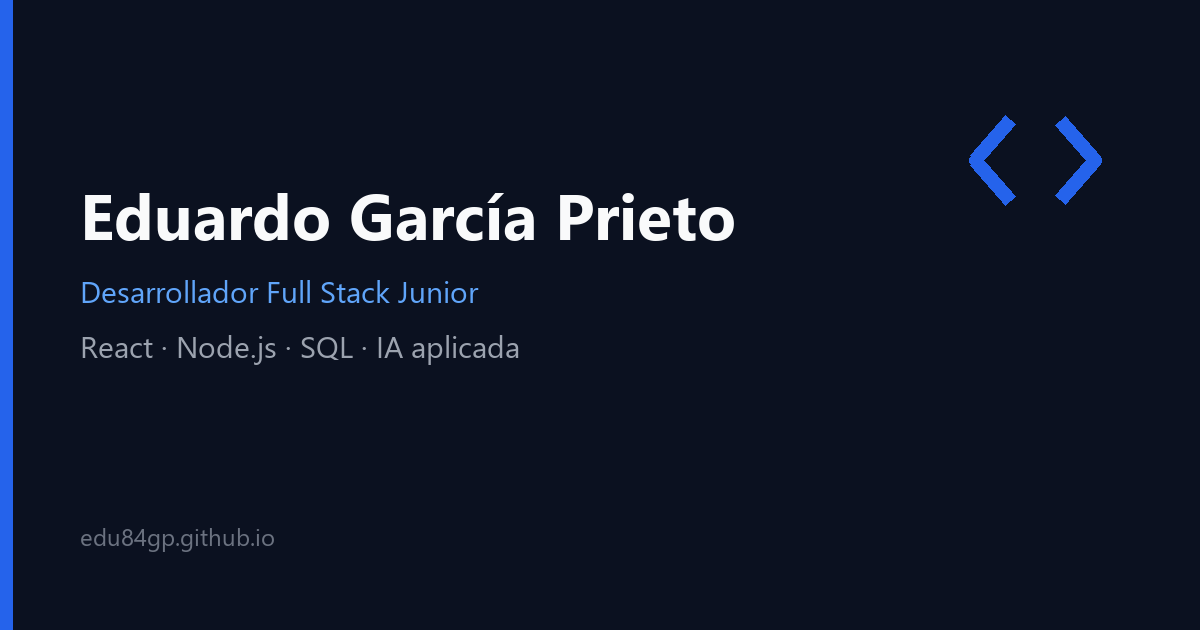
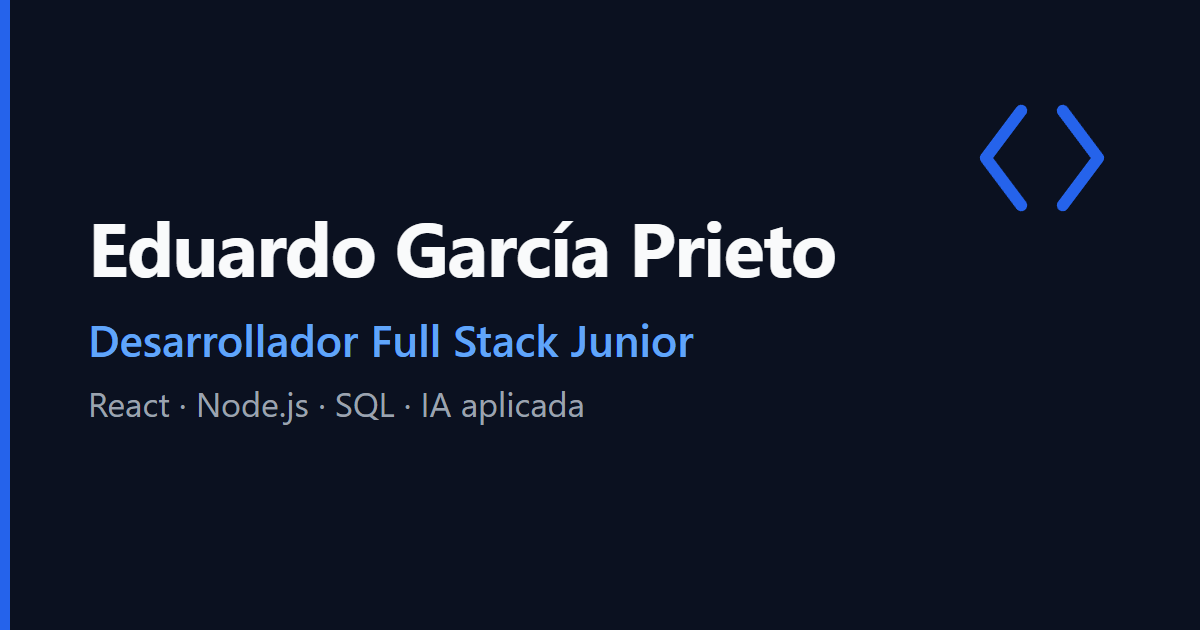
Simplifica la tarjeta social y completa los metadatos

diff --git a/index.html b/index.html
@@ -41,6 +41,7 @@
   <meta property="og:description" content="Cuatro proyectos de desarrollo Full Stack e IA: Aplika Jobs, AI Job Search Copilot, Pokédex Web y El Juego de la Vida.">
   <meta property="og:url" content="https://edu84gp.github.io/">
   <meta property="og:image" content="https://edu84gp.github.io/assets/img/og-image.png">
+  <meta property="og:image:type" content="image/png">
   <meta property="og:image:width" content="1200">
   <meta property="og:image:height" content="630">
   <meta property="og:image:alt" content="Eduardo García Prieto, Desarrollador Full Stack Junior. React, Node.js, SQL e IA aplicada.">
@@ -50,6 +51,7 @@
   <meta name="twitter:title" content="Eduardo García Prieto | Desarrollador Full Stack Junior">
   <meta name="twitter:description" content="Cuatro proyectos de desarrollo Full Stack e IA: Aplika Jobs, AI Job Search Copilot, Pokédex Web y El Juego de la Vida.">
   <meta name="twitter:image" content="https://edu84gp.github.io/assets/img/og-image.png">
+  <meta name="twitter:image:alt" content="Eduardo García Prieto, Desarrollador Full Stack Junior. React, Node.js, SQL e IA aplicada.">
 
   <script type="application/ld+json">
   {
